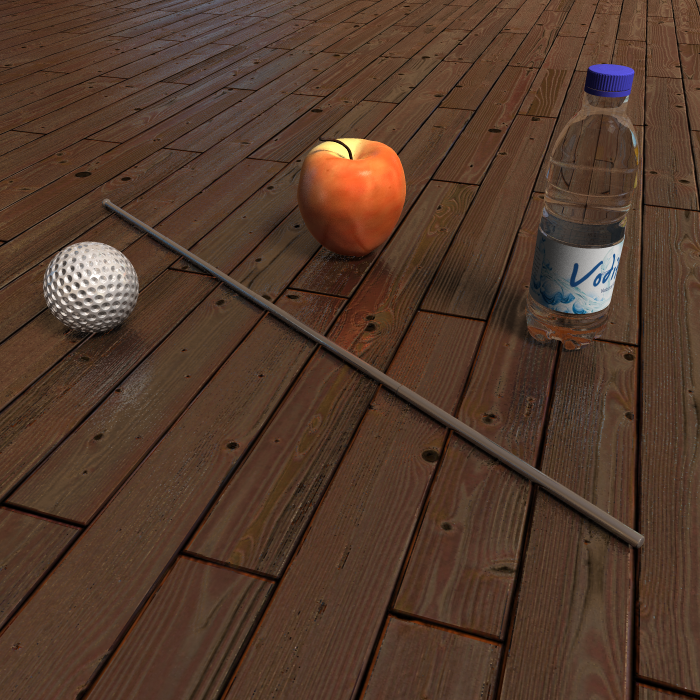
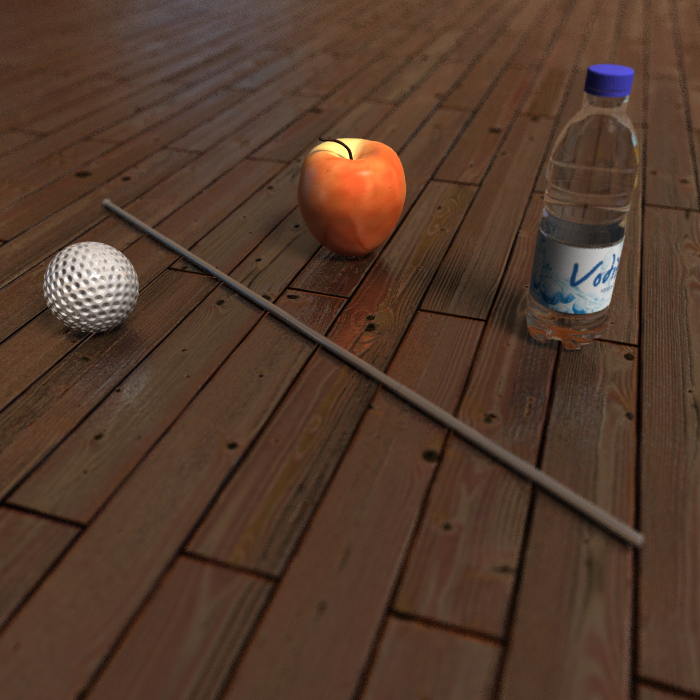
dof

diff --git a/YacRay/objective10.html b/YacRay/objective10.html
@@ -120,6 +120,7 @@
                     <ol class="carousel-indicators">
                         <li data-target="#carousel-example-generic" data-slide-to="0" class="active"></li>
                         <li data-target="#carousel-example-generic" data-slide-to="1"></li>
+                        <li data-target="#carousel-example-generic" data-slide-to="1"></li>
                     </ol>
 
                     <!-- Wrapper for slides -->
@@ -129,6 +130,9 @@
                         </div>
                         <div class="item">
                             <img class="img-responsive" src="images/objective10-2.png" alt="">
+                        </div>
+                        <div class="item">
+                            <img class="img-responsive" src="images/objective10-nodof.png" alt="">
                         </div>
                     </div>
 
@@ -152,9 +156,9 @@
 
                     <p>Scene: Area Light (Soft Shadows) + Tone Mapping + Anti Aliasing</p>
 
-                    <p>Bonus: Environment Map + Specular Map + KdTrees</p>
+                    <p>Bonus: Environment Map + Specular Map + KdTrees + Depth of Field</p>
 
-                    <p>Render Time: 1m 27s with 8 threads on 2.2GHz i7</p>
+                    <p>Render Time: 4m 10s with 8 threads on 2.2GHz i7</p>
                     <p></p>
                     <p>Sources:
                        <a href="http://www.turbosquid.com/FullPreview/Index.cfm/ID/582482">Water Bottle</a> - 
